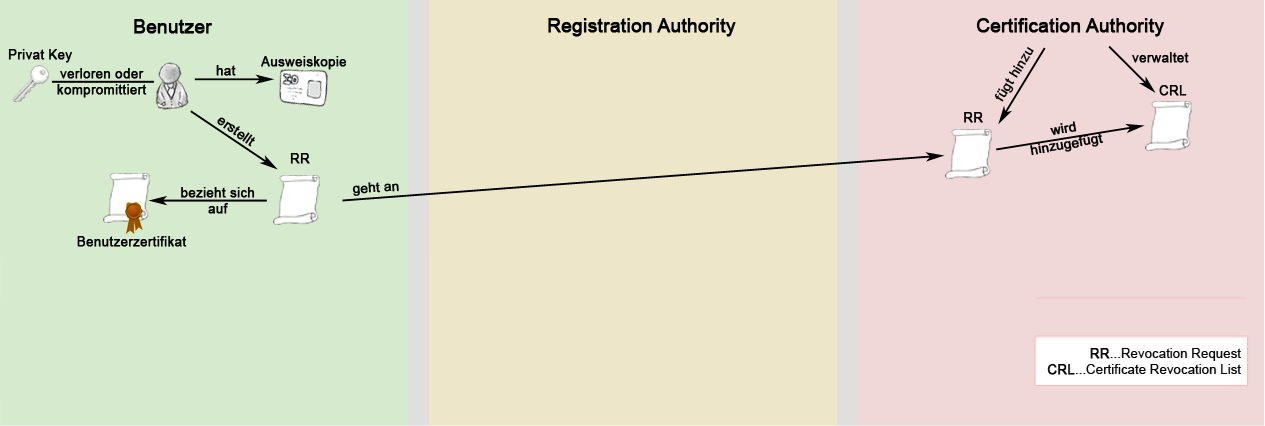
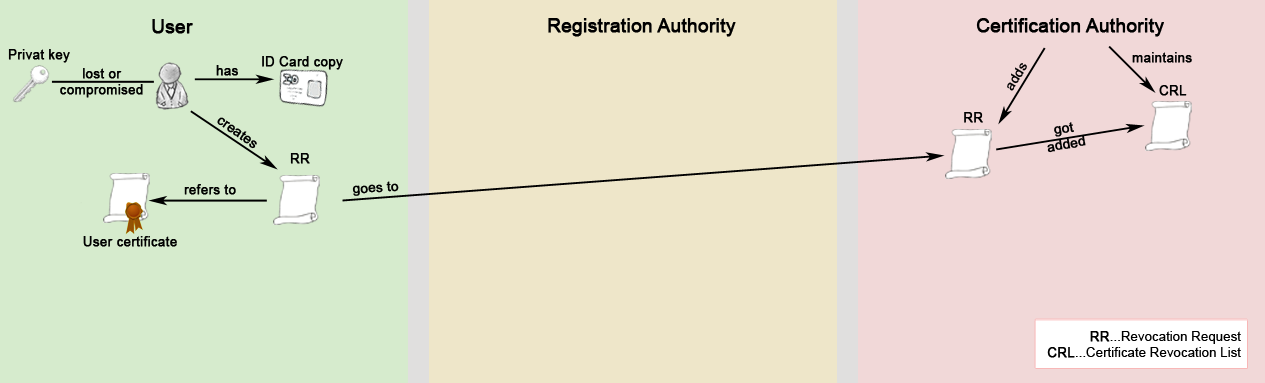
onlinehilfe engl. neue bilder eingearbeitet, referenzen von JCT-CA auf JCT-PKI geändert

diff --git a/org.jcryptool.visual.jctca/nl/en/help/intro/schutzziele.html b/org.jcryptool.visual.jctca/nl/en/help/intro/schutzziele.html
@@ -8,30 +8,30 @@
         <h1>Introduction to the problems</h1>
         <h2>Network security</h2>
         <p>
-        The technologies, that are widely used in computer networks, were designed at a time when security was not reagarded as an important issue. Only a few research institutions and universities had access to the Internet. Because of different technical characteristics of these technologies, there are varying requirements for many fields. One of the many topics of information security is the security of IT systems and computer networks. This field of expertise has established a special set of words for this requirements. The requirements itself are known as "protection goals". The follwing paragraphs describe the protection goals important for the understanding of public key infrastructures.
+        The technologies that are widely used in computer networks, were designed at a time when security was not regarded as an important issue. Only a few research institutions and universities had access to the Internet. Because of different technical characteristics of these technologies, there are varying requirements for many fields. One of the many topics of information security is the security of IT systems and computer networks. This field of expertise has established a special wording to describe its requirements. The requirements itself are known as "protection goals". The following paragraphs describe the protection goals important for the understanding of public-key infrastructures.
         </p>
         <h3>Data integrity</h3>
         <p>
         The Federal Agency for Security in Information Technology defines the "proof of the integrity of electronic data" as "proof that the data is complete and unedited."
         </p>
         <p>
-        A contract is a very good example for data integrity. Lets assume, Bob wants to sell Alice a car. As normal, they want to write a sale contract for the exchange of this car. This contract contains information on the condition of the car, how many kilomiters have been driven and which extra equipment has been installed. Because of the many points contained in this contract, it is two pages long. At the end of the second page, there is a field for Alice and Bob where both of them can sign the contract. Many of the important agreements, for example the expected milage at the time of the handover, are on the first page. Because of this, Alice has some concerns with this method. For example, if the actual mileage does not match the contract, Bob could just swap the first page with a new one. In court it would not be possible to proof which version of the contract is the one Alice an Bob originally aggreed upon. To avoid this scenario, Bob and Alice agree that each of them signs each page (in the judiciary this is known as "Initialling"). With the signature on each side, the integrity of a version of the contract can be proven because Bob can not exchange a page without the signature of Alice.
+        A contract is a very good example for data integrity. Let's assume, Bob wants to sell Alice a car. As normal, they want to write a sale contract for the exchange of this car. This contract contains information on the condition of the car, how many kilometers have been driven and which extra equipment has been installed. Because of the many points contained in this contract, it is two pages long. At the end of the second page, there is a field for Alice and Bob where both of them can sign the contract. Many of the important agreements, for example the expected mileage at the time of the handover, are on the first page. Because of this, Alice has some concerns with this method. For example, if the actual mileage does not match the contract, Bob could just swap the first page with a new one. In court it would not be possible to proof which version of the contract is the one Alice an Bob originally agreed upon. To avoid this scenario, Bob and Alice agree that each of them signs each page (in the judiciary this is known as "Initialling"). With the signature on each side, the integrity of a version of the contract can be proven because Bob can not exchange a page without the signature of Alice.
         </p>
         <p>
-        The problem of data integrity also exists in the digital world. Without any additional measures, it is not possible to verify if data has been changed while it traveled from the sender to the receiver. This is true for emails and websites alike. So, without additional measures to ensure integrity, it is not possible to check if the content of an email is the same as the text the sender wrote. Also there is no way to prove, if the HTML-Code that describes a website, has been changed on the way from the server to the webbrowser. This can have serious consequences, for example, when somone conducts business over the internet. PKIs offer a means to ensure the integrity of data. To learn more about it, you can go to the section <a href="./zertifikate.html">Digital signatures and certificates</a>.
+        The problem of data integrity also exists in the digital world. Without any additional measures, it is not possible to verify if data has been changed while it traveled from the sender to the receiver. This is true for emails and websites alike. So, without additional measures to ensure integrity, it is not possible to check if the content of an email is the same as the text the sender wrote. Also there is no way to prove, if the HTML-Code that describes a website, has been changed on the way from the server to the web browser. This can have serious consequences, for example, when someone conducts business over the internet. PKIs offer a means to ensure the integrity of data. To learn more about it, you can go to the section <a href="./zertifikate.html">Digital signatures and certificates</a>.
         </p>
         <h3>Authenticity</h3>
         <p>
         The Federal Agency for Security in Information Technology defines the "proof of the authenticity of electronic data" as "proof on the originality of the data and the unique mapping to the writer, creator and/or sender".
         </p>
         <p>
-        The need for authenticity comes up when handling letters that have been written on the computer and then printed out. Lets assume, Bob gets an envelope. The return address is the address of an hotel. On the inside, Bob finds a letter which says the following: "Dear Bob, someone stole my wallet at a conference. Can you please mail me 300 euros to the return address? I will give you the money back the next time we see each other. You'll safe my life with this, Alice." Because of the fact that the entire letter has been written and printed, Bob can not easily assume that this letter is actually from Alice. He does however know that Alice is in fact at a conference at the said address and does not want to ignore the letter. To be sure, he calls the hotel and asks for Alice. She ensures him that everything is still in her posession and that she is quite puzzled by the letter. Another visitor of the conference who knows that Alice and Bob know each other must have written said letter.
+        The need for authenticity comes up when handling letters that have been written on the computer and then printed out. Let's assume, Bob gets an envelope. The return address is the address of an hotel. On the inside, Bob finds a letter which says the following: "Dear Bob, someone stole my wallet at a conference. Can you please mail me 300 Euros to the return address? I will give you the money back the next time we see each other. You'll safe my life with this, Alice." Because of the fact that the entire letter has been written and printed, Bob can not easily assume that this letter is actually from Alice. He does however know that Alice is in fact at a conference at the said address and does not want to ignore the letter. To be sure, he calls the hotel and asks for Alice. She ensures him that everything is still in her posession and that she is quite puzzled by the letter. Another visitor of the conference who knows that Alice and Bob know each other must have written said letter.
         </p>
         <p>
-        The same problem from the example exist for all data that has been sent on a computer network. Also, the said scenario has been taken from real life events: All the time people get scammed and loose money because the believe emails similar to the letter and send money to alleged friends in need. Without additional measures you can not simply assume that a website is indeed the one you think you are visiting. Criminals for example try to create fake online banking sites and get users to enter their credentials in order to get access to their bank accounts.
+        The same problem from the example exists for all data that has been sent on a computer network. Also, the said scenario has been taken from real life events: All the time people get scammed and lose money because they believe emails similar to the letter and send money to alleged friends in need. Without additional measures you can not simply assume that a website is indeed the one you think you are visiting. Criminals for example try to create fake online banking sites and get users to enter their credentials in order to get access to their bank accounts.
         </p>
         <p>
-        Data integrity is a crucial requirement for verifiable authenticity. This is quite easy to understand: Lets assume again that Bob gets a letter. This time, Alice wrote and signed the letter herself. So Bob can be sure that Alice really needs the 300 euros from him (we ignore the fact that the signature could have been a forgery). Now the problem is at hand that the letter says, he should send the money to the return address on the envelope. Somebody that had access to the letter could have removed the original envelope and put it in a new one. Because of this, Bob should call Alice again and verify the address of the hotel.
+        Data integrity is a crucial requirement for verifiable authenticity. This is quite easy to understand: Let's assume again that Bob gets a letter. This time, Alice wrote and signed the letter herself. So Bob can be sure that Alice really needs the 300 Euros from him (we ignore the fact that the signature could have been a forgery). Now the problem is at hand that the letter says, he should send the money to the return address on the envelope. Somebody that had access to the letter could have removed the original envelope and put it in a new one. Because of this, Bob should call Alice again and verify the address of the hotel.
         </p>
         <p>
         A testament makes the dependency between integrity and authenticity even more obvious. A testament usually has to be handwritten and signed by yourself. The signature of a typewritten document is not enough. Shortly we will learn that authenticity without integrity could also have dangerous consequences. 
@@ -47,7 +47,7 @@
         Non repudiation is needed for the validity of trades. This is the reason, why it needs to be a result of authenticity and integrity.
         </p>
         <p>
-        Lets take the example of a car trade again: Bob and Alice wrote a sale contract, and signed each of the pages. Because of the signature on each side, its integrity is ensured. The signatures itself prove the authenticity of both parties. Because of this, neither Alice nor Bob can dispute that they have in fact read and accepted the contract. Bob now gives Alice the car and lets her sign a confirmation of delivery. So Alice cannot deny that Bob has given her the car. This is very important, if Alice would not fullfill her duty of payment. When Alice pays Bob the money for the car, she asks Bob for a receipt. So Bob can not deny, that Alice has already payed the money.
+        Let's take the example of a car trade again: Bob and Alice wrote a sale contract, and signed each of the pages. Because of the signature on each side, its integrity is ensured. The signatures itself prove the authenticity of both parties. Because of this, neither Alice nor Bob can dispute that they have in fact read and accepted the contract. Bob now gives Alice the car and lets her sign a confirmation of delivery. So Alice cannot deny that Bob has given her the car. This is very important, if Alice would not fulfill her duty of payment. When Alice pays Bob the money for the car, she asks Bob for a receipt. So Bob can not deny, that Alice has already paid the money.
         </p>
         <p>
         Since PKIs help to ensure integrity and authenticity they can also ensure non repudiation. However, there are special legal requirements for the different operational scenarios of PKIs. At <a href="./zertifikate.html">"Digital Sigantures and Certificates"</a> you can read more about them.

diff --git a/org.jcryptool.visual.jctca/nl/en/help/intro/pki.html b/org.jcryptool.visual.jctca/nl/en/help/intro/pki.html
@@ -26,12 +26,12 @@
         <h3>Certificate revocation</h3>
         <img alt="Architekturskizze Zertifikatswiderruf" src="../media/minica_revoke.png" />
         <p>
-        A PKI does not only provide the means to create certificates. It also maintains services necessary to revoke a certificate before its validity period ends. The possible reasons for revocation are many. Maybe the private key got stolen or lost. Maybe the certificate holder left the organisation specified within the certificate. A CA can revoke certificates by itself as well if it got broken into for example. If a user wants to revoke his certificate, he creates a revocation request (RR) and sings it with his private key. If he can no longer use the private key for whatever reason, the RR needs to be verified by the RA in the same manner the CSR was. If a CA gets a RR either signed by the user himself or checked by the RA, it adds the certificate in question to its so-called "certificate revocation list" (CRL). This CRL is basically a list of all non-expired, revoked certificates.
+        A PKI does not only provide the means to create certificates. It also maintains services necessary to revoke a certificate before its validity period ends. The possible reasons for revocation are many. Maybe the private key got stolen or lost. Maybe the certificate holder left the organization specified within the certificate. A CA can revoke certificates by itself as well if it got broken into for example. If a user wants to revoke his certificate, he creates a revocation request (RR) and sings it with his private key. If he can no longer use the private key for whatever reason, the RR needs to be verified by the RA in the same manner the CSR was. If a CA gets a RR either signed by the user himself or checked by the RA, it adds the certificate in question to its so-called "certificate revocation list" (CRL). This CRL is basically a list of all non-expired, revoked certificates.
         </p>
         <h3>Signature check</h3>
         <img alt="Architekturskizze Signaturpr&uuml;fung" src="../media/minica_check.png" />
         <p>
-        If somebody receives signed data (e.g. an email), he needs to check for several things to determine if the signature is valid. First, he needs to check if the certificate itself is valid. For that purpose, he needs to get the so-called root certificate of the issuing CA. This root certificate is the certificate corresponding to the private key, with which the CA created the user's certificate. Next, he needs to check if the certificate has not yet expired. In the strictest sense, a signature is never valid if a certificate has expired. Only during the validity period does the CA maintain the revocation status of a certificate. Therefor, one can not determine if a certificate has been revoked or not once it expired. In practise, CAs treat this differently, though. However, this plugin adheres to the standard and treats every signature from an expired certificate as invalid. If the certificate is valid and not expired, the receiver needs to check if the signature was created by the private key corresponding to the certificate. If that is the case, the revocation status of the certificate has to be checked. To that purpose, the receiver requests the issuing CA's CRL and checks if and when the certificate was added to it. A signature is valid only if: The certificate itself is valid and not expired and the signature is valid (i.e. was created by the private key corresponding to the public key) and the signature was created before the certificate was added to the CRL. Signatures created before a certificate has been revoked remain valid, because otherwise certificate validation would be a way to invalidate contracts signed with the private key corresponding to the revoked certificate. The standards about digital certificates do not cover how signatures of revoked certificates that are technically valid are to be treated. This is left to the parties in question.
+        If somebody receives signed data (e.g. an email), he needs to check for several things to determine if the signature is valid. First, he needs to check if the certificate itself is valid. For that purpose, he needs to get the so-called root certificate of the issuing CA. This root certificate is the certificate corresponding to the private key, with which the CA created the user's certificate. Next, he needs to check if the certificate has not yet expired. In the strictest sense, a signature is never valid if a certificate has expired. Only during the validity period does the CA maintain the revocation status of a certificate. Therefore, one can not determine if a certificate has been revoked or not once it expired. In practice, CAs treat this differently, though. However, this plugin adheres to the standard and treats every signature from an expired certificate as invalid. If the certificate is valid and not expired, the receiver needs to check if the signature was created by the private key corresponding to the certificate. If that is the case, the revocation status of the certificate has to be checked. To that purpose, the receiver requests the issuing CA's CRL and checks if and when the certificate was added to it. A signature is valid only if: The certificate itself is valid and not expired and the signature is valid (i.e. was created by the private key corresponding to the public key) and the signature was created before the certificate was added to the CRL. Signatures created before a certificate has been revoked remain valid, because otherwise certificate validation would be a way to invalidate contracts signed with the private key corresponding to the revoked certificate. The standards about digital certificates do not cover how signatures of revoked certificates that are technically valid are to be treated. This is left to the parties in question.
 
         <!-- last but definitely not least, the creative commons attribution share-alike license notice-->
         <hr>

diff --git a/org.jcryptool.visual.jctca/nl/en/help/intro/zertifikate.html b/org.jcryptool.visual.jctca/nl/en/help/intro/zertifikate.html
@@ -6,10 +6,10 @@
     </head>
     <body>
         <!--Headline 1 should be the main title of the displayed page -->
-        <h1>Digitale Signaturen und Zertifikate</h1>
+        <h1>Digital signatures and certificates</h1>
         <!--first, we give a general introduction about this section of the onlinehelp-->
         <p>
-        You read about the core principles like data integrity, authentication and non-repudiation in <a href="./schutzziele.html">Introduction to the problems</a>. This section deals about how these can be accomplished in the digital world.
+        You read about the core principles like data integrity, authentication and non-repudiation in <a href="./schutzziele.html">Introduction to the problems</a>. This section deals with how these principles can be accomplished in the digital world.
         </p>
         <!-- all other headlines and paragraphs come after here -->
         <h2>Digital signatures</h2>
@@ -24,11 +24,11 @@
         In asymmetric cryptography, one uses a so-called key pair. The public key is used for encryption only. Once something has been encrypted with a public key, it cannot be decrypted without knowledge of the corresponding private key. You can learn more about asymmetric encryption in the "RSA Cryptosystem" and "Extended RSA Cryptosystem" plugins.
         </p>
         <p>
-        For digital signatures, the opposite effect of assymetric encryption is used. If Bob wants to prove, that a given file was sent by him, he can encrypt the file using his private key. The ciphertext created is the signature for the file. A receiver can decrypt the signature with the public key. If the decrypted signature and the received file are identical, it is obviously the file sent by Bob. Only he had the means, i.e. the private key, to create the signature.
+        For digital signatures, the opposite effect of asymmetric encryption is used. If Bob wants to prove, that a given file was sent by him, he can encrypt the file using his private key. The ciphertext created is the signature for the file. A receiver can decrypt the signature with the public key. If the decrypted signature and the received file are identical, it is obviously the file sent by Bob. Only he had the means, i.e. the private key, to create the signature.
         </p>
         <h4>Cryptographic hash function</h4>
         <p>
-        Asymmetric encryption involves slow and complex mathematical operations, thus it's not pratical to sign entire files. For that reason, cryptographic hash functions are used. In general, a hash function is a function that reduces a bit string of variable length to a bit string of fixed length. A cryptographic hash function has some additional qualities, which you can find in the <a href="https://en.wikipedia.org/wiki/Cryptographic_hash_function">wikipedia article on cryptographic hash functions</a>. Also, you can use the JCrypTool to create MD5, SHA and SHA3 hashes for text files. If an email or file needs to be signed, a cryptographic hash is created first. This hash is then encrypted using the private key as described above. To check the signature, a receiver creates the hash using the same hash function, decrypts the signature and checks if the two hashes are equal. You can learn about the signature process in more detail in the "Signature Generation Visualization" plug-in.
+        Asymmetric encryption involves slow and complex mathematical operations, thus it's not practical to sign entire files. For that reason, cryptographic hash functions are used. In general, a hash function is a function that reduces a bit string of variable length to a bit string of fixed length. A cryptographic hash function has some additional qualities, which you can find in the Wikipedia article on <a href="https://en.wikipedia.org/wiki/Cryptographic_hash_function">cryptographic hash functions</a>. Also, you can use JCrypTool to create MD5, SHA and SHA3 hashes for text files. If an email or file needs to be signed, a cryptographic hash is created first. This hash is then encrypted using the private key as described above. To check the signature, a receiver creates the hash using the same hash function, decrypts the signature and checks if the two hashes are equal. You can learn about the signature process in more detail in the "Signature Generation Visualization" plug-in.
         </p>
         <h2>Public key authentication</h2>
         <p>
@@ -39,7 +39,7 @@
         </p>
         <h2>Non-repudiation: Legal basics about digital certificates</h2>
         <p>
-        The EU directive 1999/93/EG defines the term "qualified certificate" as "a certificate which meets the requirements laid down in Annex I and is provided by a certification-service-provider who fulfils the requirements laid down in Annex II". Only signatures created by private keys of these kinds of certificates are legally equal to handwritten signatures. You can read more about this in the <a href="https://en.wikipedia.org/wiki/Public_key_certificate#Usage_in_the_European_Union">wikipedia article on public key certificates</a>.
+        The EU directive 1999/93/EG defines the term "qualified certificate" as "a certificate which meets the requirements laid down in Annex I and is provided by a certification-service-provider who fulfils the requirements laid down in Annex II". Only signatures created by private keys of these kinds of certificates are legally equal to handwritten signatures. You can read more about this in the Wikipedia article on <a href="https://en.wikipedia.org/wiki/Public_key_certificate#Usage_in_the_European_Union">public key certificates</a>.
         </p>
 
         <!-- all footnotes go into the following sections. uncomment if needed -->

diff --git a/org.jcryptool.visual.jctca/nl/en/help/index.html b/org.jcryptool.visual.jctca/nl/en/help/index.html
@@ -2,24 +2,24 @@
 <html lang = "en">
     <head>
         <meta charset="utf-8">
-        <title>JCrypTool Certification Authority</title>
+        <title>JCrypTool Public-Key Infrastructure Plugin</title>
     </head>
    <body>
-        <h1>JCT-CA Online help</h1>
+        <h1>JCT-PKI online help</h1>
         <p>
-        Welcome in the online help of the JCrypTool Certification Authority (short JCT-CA). The JCrypTool Certification Authority plugin helps to show the basic functions of a public key infrastructure. On the one hand, the present online help contains detailed explanations on the parts of the plugin. On the other hand, there are profound informations on the topics of PKI and digital certificates.
+        Welcome in the online help of the JCrypTool Certification Authority (short JCT-PKI). The JCT-PKI plugin helps to show the basic functions of a public key infrastructure. On the one hand, this online help contains detailed explanations on the parts of the plugin. On the other hand, there is profound information on the topics of PKI and digital certificates.
         </p>
         <h2>About this plugin</h2>
         <p>
-        The JCT-CA plugin was created during a project at the University of Applied Sciences Upper Austria, Hagenberg Campus. It should explain the basic functions of a PKI. The shown processes do not claim to be complete and have been simplified to ensure better understandability. The goal is to teach the user a basic understanding of the need of PKIs and which processes are tied with the creation and the revocation of a certificate. Some concepts that are important for the operator of a PKI but do not have any significance for the user are omited to make it more understandable. A detailed view of all aspects on PKIs would also be far to complex for a project that needs to be done during one term and for such a basic educational program.
+        The JCT-PKI plugin was created during a project at the University of Applied Sciences Upper Austria, Hagenberg Campus. It should explain the basic functions of a PKI. The shown processes do not claim to be complete and have been simplified to ensure better understandability. The goal is to teach the user a basic understanding of the need of PKIs and which processes are tied with the creation and the revocation of a certificate. Some concepts which are important for the operator of a PKI but do not have any significance for the user are omitted to make it easier to understand. A detailed view of all aspects on PKIs would also be far too complex for a project that needs to be done during one term and for such a basic educational program.
         </p>
         <h2> Design of the online help</h2>
         <p>
-        In <a href="./intro/schutzziele.html">Introduction on the problems</a> you get an overview on the many problems that a PKI tries to solve. <a href="./intro/zertifikate.html">Digital signatures and certificates</a> explains the concepts with which a PKI solves the stated problems. <a href="./intro/pki.html">Processes of a PKI</a> describes the activities that are done for the creation of a certificate, checking of a signature and revoking a certificate. The chapters <a href="./pki/ra.html">RA</a> and <a href="./pki/ca.html">CA</a> under "Roles of a PKI" explain two very important parts of a PKI: the registration authority and certification authority. In <a href="./pkix/standards.html">X.509 and PKIX</a> you find more information on the standards that are used to describe digital certificates.
+        In <a href="./intro/schutzziele.html">Introduction to the problems</a> you get an overview on the many problems that a PKI tries to solve. <a href="./intro/zertifikate.html">Digital signatures and certificates</a> explains the concepts used by a PKI to solve the stated problems. <a href="./intro/pki.html">PKI processes</a> describes the activities necessary to create a certificate, to check a signature and to revoke a certificate. The chapters <a href="./pki/ra.html">RA</a> and <a href="./pki/ca.html">CA</a> under "Roles of a PKI" explain two very important parts of a PKI: the registration authority and certification authority. In <a href="./pkix/standards.html">X.509 and PKIX</a> you find more information on the standards used to describe digital certificates.
         </p>
         <h2>Credits</h2>
         <p>
-        <a href="https://en.wikipedia.org">Wikipedia</a> was one of the many sources of this online help. We thank the authors of this platform a lot for constantly improving its content.
+        <a href="https://en.wikipedia.org">Wikipedia</a> was one of the many sources for this online help. We thank the authors of this platform a lot for constantly improving its content.
         </p>
         <!--
         <h2>Lizenz</h2>

diff --git a/org.jcryptool.visual.jctca/nl/de/help/index.html b/org.jcryptool.visual.jctca/nl/de/help/index.html
@@ -2,16 +2,16 @@
 <html lang = "de">
     <head>
         <meta charset="utf-8">
-        <title>JCrypTool Certification Authority</title>
+        <title>JCrypTool Public-Key-Infrastruktur Plugin</title>
     </head>
     <body>
-        <h1>JCT-CA Onlinehilfe</h1>
+        <h1>JCT-PKI Onlinehilfe</h1>
         <p>
-        Willkommen in der Onlinehilfe der JCrypTool Certification Authority (kurz JCT-CA). Das JCT-CA-Plugin veranschaulicht die grundlegende Funktionsweise einer Public-Key-Infrastruktur. Die hier vorliegende Onlinehilfe gibt einerseits ausführliche Erklärungen zu den einzelnen Bestandteilen des Plugins. Andererseits enthält Sie tiefergehende Informationen zu den Themen PKI und Digitale Zertifikate.
+        Willkommen in der Onlinehilfe der JCrypTool Public-Key-Infrastruktur (kurz JCT-PKI). Das JCT-PKI-Plugin veranschaulicht die grundlegende Funktionsweise einer Public-Key-Infrastruktur. Die hier vorliegende Onlinehilfe gibt einerseits ausführliche Erklärungen zu den einzelnen Bestandteilen des Plugins. Andererseits enthält Sie tiefergehende Informationen zu den Themen PKI und Digitale Zertifikate.
         </p>
         <h2>Über dieses Plugin</h2>
         <p>
-        Das JCT-CA entstand im Zuge eines Semesterprojektes an der FH Oberösterreich am Campus Hagenberg und soll die grundlegende Funktionsweise einer solchen PKI näher bringen. Die dargestellten Prozesse erheben keinerlei Anspruch auf Vollständigkeit und sind an einigen Stellen zur besseren Verständlichkeit vereinfacht worden. Ziel ist, ein grundlegendes Verständnis zu vermitteln, wofür PKIs   benötigt werden und welche Prozesse mit der Ausstellung und dem Widerruf digitaler Zertifikate verbunden sind. Auf manche Konzepte hinter PKIs wird dabei nicht eingegangen, die zwar für einen PKI-Betreiber von großer Wichtigkeit sind, aber für das allgemeine Verständnis der Notwendigkeit und Funktionsweise mehr hinderlich als förderlich wären. Eine genaue Darstellung aller Aspekte rund um PKIs würde außerdem den  Rahmen eines einzelnen Semesterprojektes und eines so grundlegenden Lernprogrammes JCT weit sprengen.
+        Das JCT-PKI entstand im Zuge eines Semesterprojektes an der FH Oberösterreich am Campus Hagenberg und soll die grundlegende Funktionsweise einer solchen PKI näher bringen. Die dargestellten Prozesse erheben keinerlei Anspruch auf Vollständigkeit und sind an einigen Stellen zur besseren Verständlichkeit vereinfacht worden. Ziel ist, ein grundlegendes Verständnis zu vermitteln, wofür PKIs   benötigt werden und welche Prozesse mit der Ausstellung und dem Widerruf digitaler Zertifikate verbunden sind. Auf manche Konzepte hinter PKIs wird dabei nicht eingegangen, die zwar für einen PKI-Betreiber von großer Wichtigkeit sind, aber für das allgemeine Verständnis der Notwendigkeit und Funktionsweise mehr hinderlich als förderlich wären. Eine genaue Darstellung aller Aspekte rund um PKIs würde außerdem den  Rahmen eines einzelnen Semesterprojektes und eines so grundlegenden Lernprogrammes JCT weit sprengen.
         </p>
         <h2> Aufbau der Onlinehilfe</h2>
         <p>
@@ -35,7 +35,7 @@
         </ul>
         Zu folgenden Bedingungen.
         <ul>
-            <li>Namensnennung &ndash; Sie müssen den Namen der Autoren Simon Hornbachner, Marco Macala und Kerstin Reisinger sowie die <a href="http://www.cryptool.org/jcryptool">Lernplattform JCrypTool</a> nennen.</li>
+            <li>Namensnennung &ndash; Sie müssen die <a href="http://www.cryptool.org/jcryptool">Lernplattform JCrypTool</a> nennen.</li>
             <li>Weitergabe unter gleichen Bedingungen &ndash; Wenn Sie den lizenzierten Inhalt bearbeiten oder in anderer Weise erkennbar als Grundlage für eigenes Schaffen verwenden, dürfen Sie die daraufhin neu entstandenen Werke bzw. Inhalte nur unter Verwendung von Lizenzbedingungen weitergeben, die mit denen dieses Lizenzvertrages identisch oder vergleichbar sind.</li>
         </ul>
         Um eine vollständige Kopie dieser Lizenz einzusehen, konsultieren Sie <a rel="license" href="http://creativecommons.org/licenses/by-sa/3.0/deed.de">http://creativecommons.org/licenses/by-sa/3.0/deed.de</a> oder wenden Sie sich brieflich an Creative Commons, 444 Castro Street, Suite 900, Mountain View, California, 94041, USA. 

diff --git a/org.jcryptool.visual.jctca/nl/en/help/pkix/standards.html b/org.jcryptool.visual.jctca/nl/en/help/pkix/standards.html
@@ -9,7 +9,7 @@
         <h1>X.509 and PKIX</h1>
         <!--first, we give a general introduction about this section of the onlinehelp-->
         <p>
-	In this section, you get detailled information about the two most important standards for digital certificates on the internet. 
+	In this section, you get detailed information about the two most important standards for digital certificates on the internet. 
         The ITU-T recommendation X.509 (abbreviated as X.509 standard or X.509) is a standard for public key and privilege management infrastructures. X.509 specifies only the format for certificates and certificate revocation lists.  
 	The main implementation of X.509 and the thus the second most important standard for digital certificates RFC5280 is authored by a workgroup of the IETF and is entitled "Internet X.509 Public Key Infrastructure Certificate and Certificate Revocation List Profile". This standard is referred to as PKIX standard. In most cases if an X.509 certificate is mentioned, it refers to the X.509v3 certificate from RFC5280.
 
@@ -25,8 +25,8 @@
             <li>Issuer &ndash; The assigning CA, consisting of</li>
             <ul>
                 <li>Common Name &ndash; The Common Name is the name, to whom the certificate is issued. This name can also be an email address or a server name if it is an e-mail certificate or server certificate.</li>
-                <li>Organisation &ndash; Name of organisation, which run the PKI.</li>
-                <li>Organisational Unit &ndash; Department of organisation.</li>
+                <li>Organization &ndash; Name of organization, which run the PKI.</li>
+                <li>Organizational Unit &ndash; Department of organization.</li>
                 <li>Location &ndash; The place where the CA is located. Mostly, the city where the operator has its headquarters.</li>
                 <li>State &ndash; The state where the CA is located.</li>
                 <li>Country &ndash; The country where the CA is located.</li>
@@ -34,7 +34,7 @@
             <li>Validity &ndash; The validity period of the certificate. During this period, the CA guarantees to manage the validity status of the certificate. This consists of a "not before" and a "not after" the date.</li>
             <li>Subject &ndash; Information about the certificate owner. These consist of the same elements as the information about the CA, but some fields can be empty. At least, the common name must be set.</li>
             <li>Subject Public Key Info &ndash; The pubilc key of the certificate owner.</li>
-            <li>X.509v3 extensions &ndash; Optionale extensions. For example a root certificate is labled with a X.509v3 extensions.</li>
+            <li>X.509v3 extensions &ndash; Optional extensions. For example a root certificate is labeled with a X.509v3 extensions.</li>
             <li>Signature &ndash; Signature algorithm and signature of the assigning CA over the hash of the certificate.</li>
         </ul>
         </p>

diff --git a/org.jcryptool.visual.jctca/nl/en/help/pki/ra.html b/org.jcryptool.visual.jctca/nl/en/help/pki/ra.html
@@ -12,12 +12,12 @@
         A registration authority (RA) is responsible for the validation of certificate signing request (CSR) and possibly for revocation requests (RR).
         </p>
         <!-- all other headlines and paragraphs come after here -->
-        <h2>Responsibilities of a RA - Validation of CSRs</h2>
+        <h2>Responsibilities of a RA &ndash; Validation of CSRs</h2>
         <p>
-	A registration authority is responsible for the validation of CSRs. What this means exactly, depends on the type of CSR. For example, if an e-mail certificate should be issued, it have to be ensured that the applicant is the holder of the e-mail address specified in the CSR. This is often implemented by sending a validation code.</p>
-        <p>The validation process for a personal certificate is more complex. For example the German Post offers, the so-called post-identification method. The identification of a person is made by an employee at a post office. The applicant receives a PostIdent coupon and submit it together with a passport or identity card at a post office. An employee of the post office copies the identification data to the coupon and has it signed by the customer. The employee confirms the data with the stamp of the post office and its own signature and forward the coupon to the respective company.</p>
-        <h2>StartSSL - A real world example </h2>
-        <p>StartSSL is a pki of the company StartCom, which offers free e-mail certificates and cheap personal certificates.</p>
+	A registration authority is responsible for the validation of CSRs. What this means exactly, depends on the type of CSR. For example, if an e-mail certificate should be issued, it has to be ensured that the applicant is the holder of the e-mail address specified in the CSR. This is often implemented by sending a validation code.</p>
+        <p>The validation process for a personal certificate is more complex. For example, the German Post offers the so-called post-identification method. The identification of a person is made by an employee at a post office. The applicant receives a PostIdent coupon and submits it together with a passport or identity card at a post office. An employee of the post office copies the identification data to the coupon and has it signed by the customer. The employee confirms the data with the stamp of the post office and its own signature and forwards the coupon to the respective company.</p>
+        <h2>StartSSL &ndash; A real world example </h2>
+        <p>StartSSL is a PKI of the company StartCom, which offers free e-mail certificates and cheap personal certificates.</p>
         <p>
         <img alt="StartSSL E-Mail Validation Wizard" src="../media/startssl_email_val.png" />
         </p>

diff --git a/org.jcryptool.visual.jctca/nl/en/help/pki/ca.html b/org.jcryptool.visual.jctca/nl/en/help/pki/ca.html
@@ -9,7 +9,7 @@
         <h1>Certification Authority</h1>
         <!--first, we give a general introduction about this section of the onlinehelp-->
         <p>
-        A certification authority (CA) or certificate authority is the part of a pki, which is reponsible for the certificate management.
+        A certification authority (CA) or certificate authority is the part of a PKI, which is responsible for the certificate management.
         </p>
         <!-- all other headlines and paragraphs come after here -->
         <h2>Responsibilities of a CA</h2>
@@ -22,7 +22,7 @@
 	</p>
         <h3>Certificate revocation list</h3>
         <p>
-        A CA also maintains a certificate revocation list, in which all certificates issued by the CA are listed that have not yet passed its validity period, but were revoked by the user or the CA. A certificate may be revoked for example, because the private key has been compromised. If a company and a department were specified in a certificate, it may also be that the employee has left this company and therefore the certificate is no longer valid. Moreover, a CA can revoke certificates by herself, for example if a signing key of the CA was stolen, with which the CA already issued certificates.
+        A CA also maintains a certificate revocation list, in which all certificates issued by the CA are listed which have not yet passed its validity period, but were revoked by the user or the CA. A certificate may be revoked for example, because the private key has been compromised. If a company and a department were specified in a certificate, it may also be that the employee has left this company and therefore the certificate is no longer valid. Moreover, a CA can revoke certificates by herself, for example if a signing key of the CA was stolen, with which the CA already issued certificates.
         </p>
 
         <!-- all footnotes go into the following sections. uncomment if needed -->
